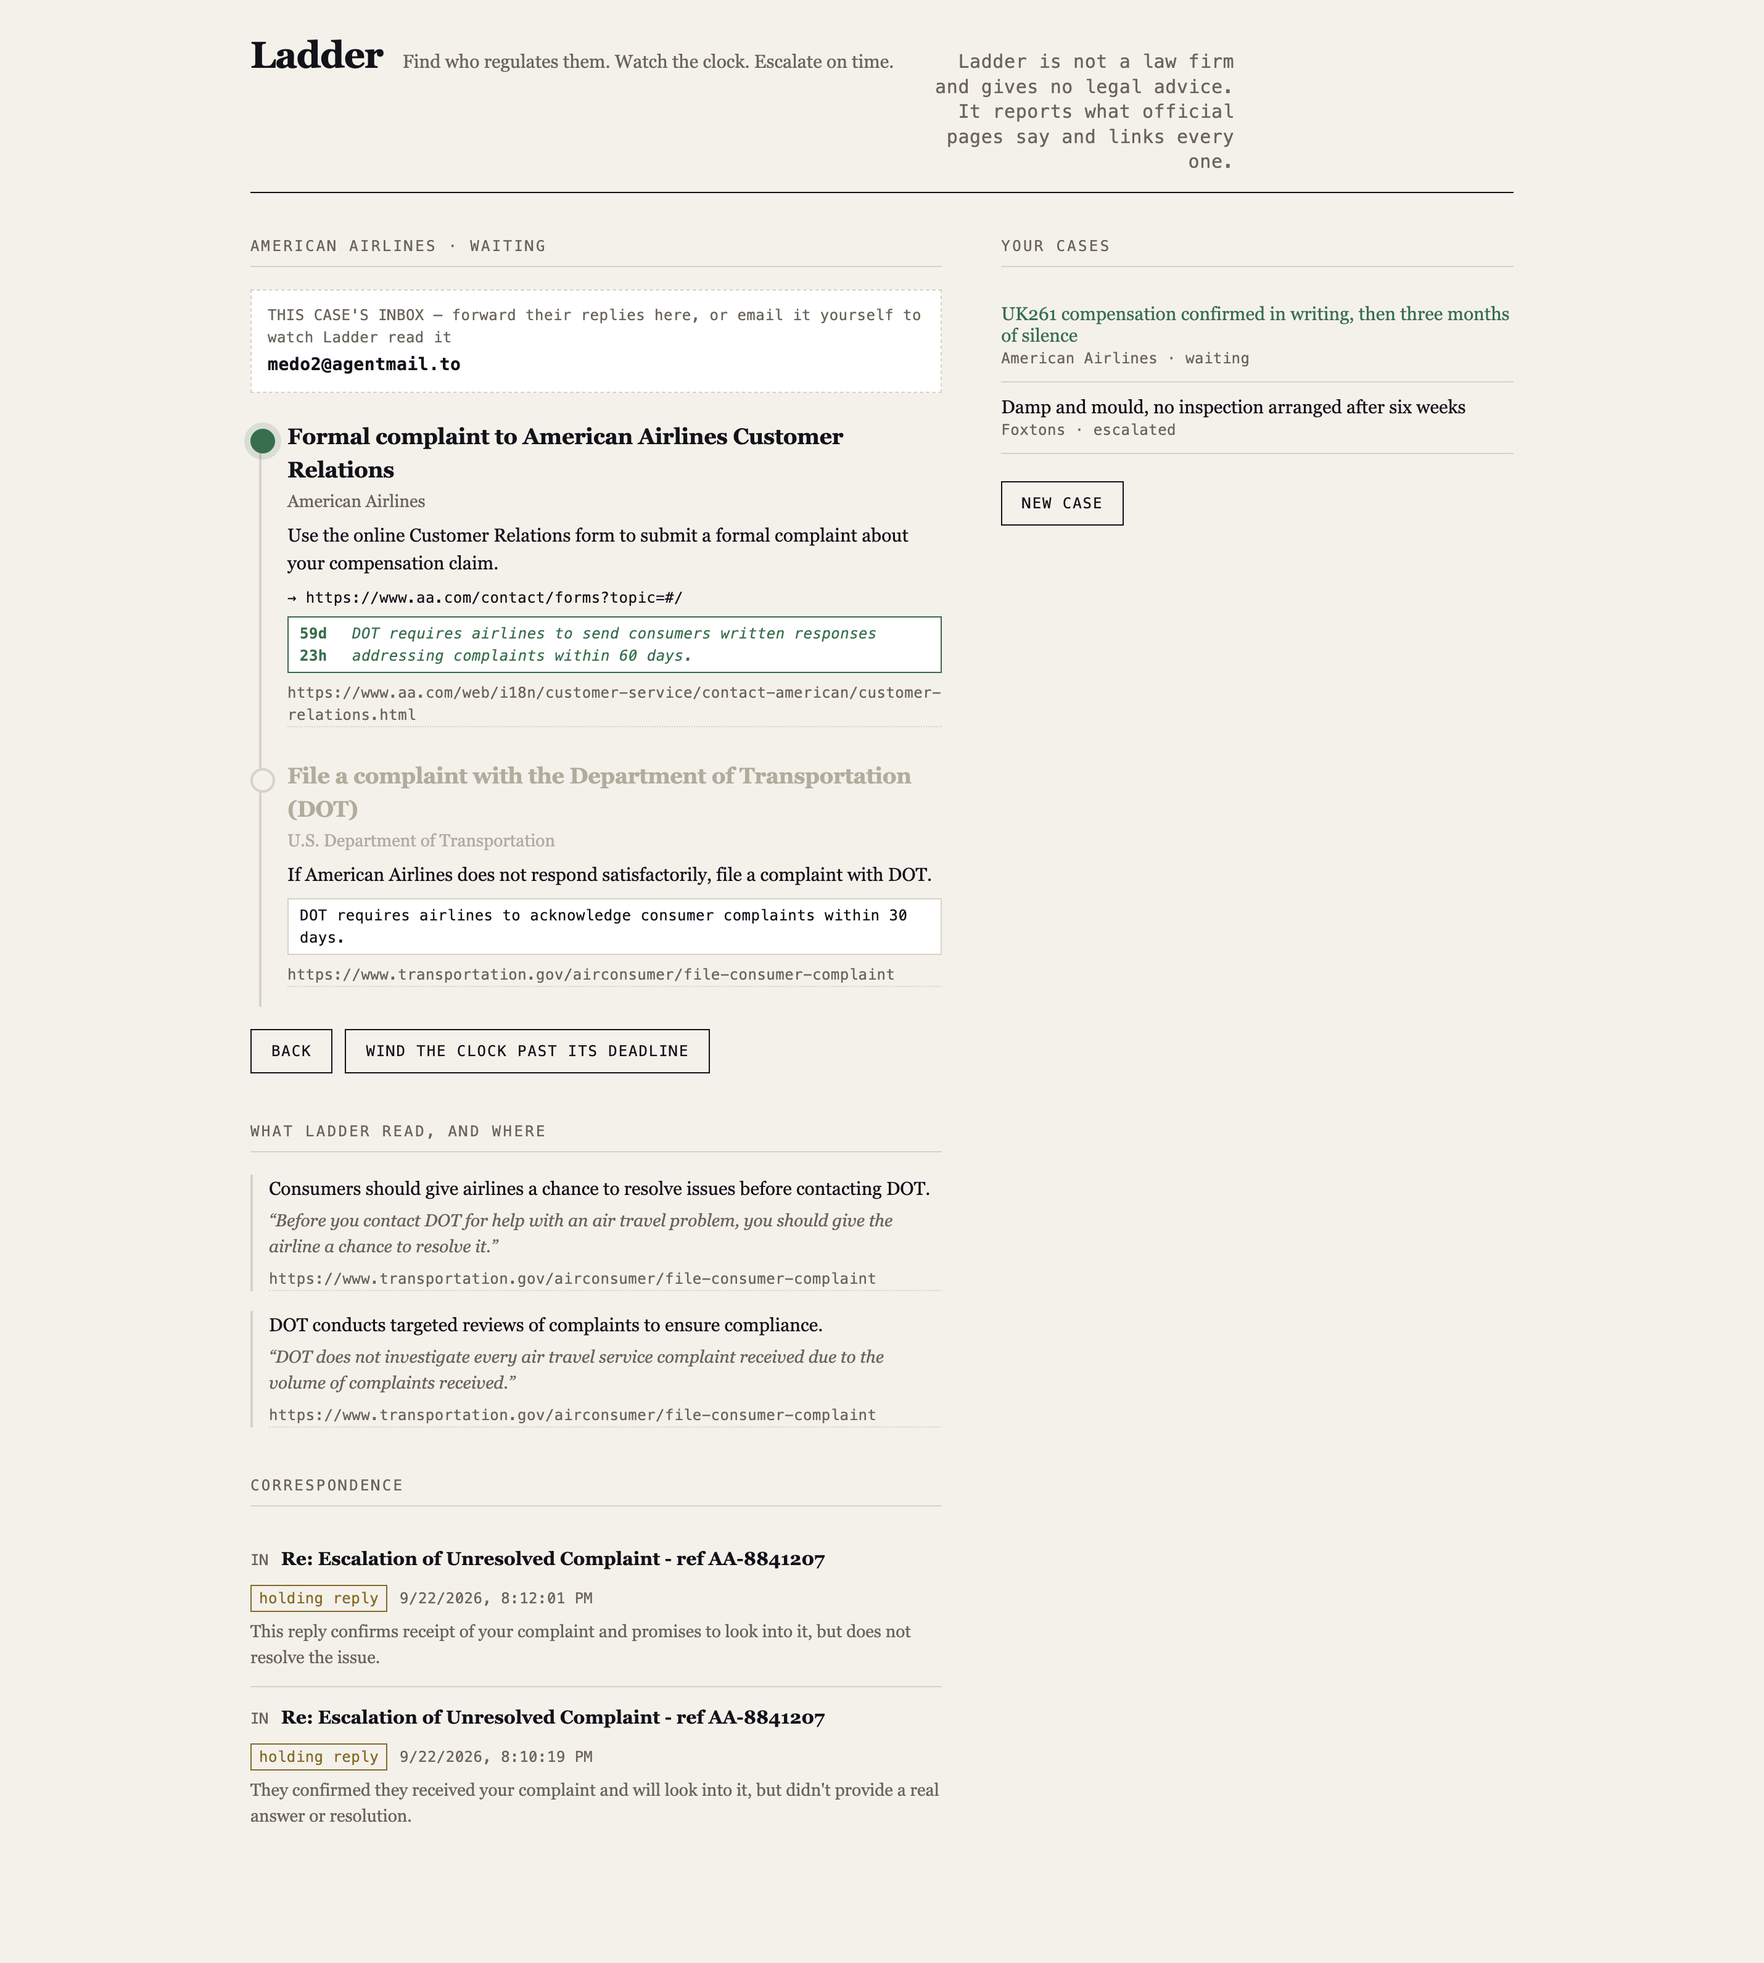
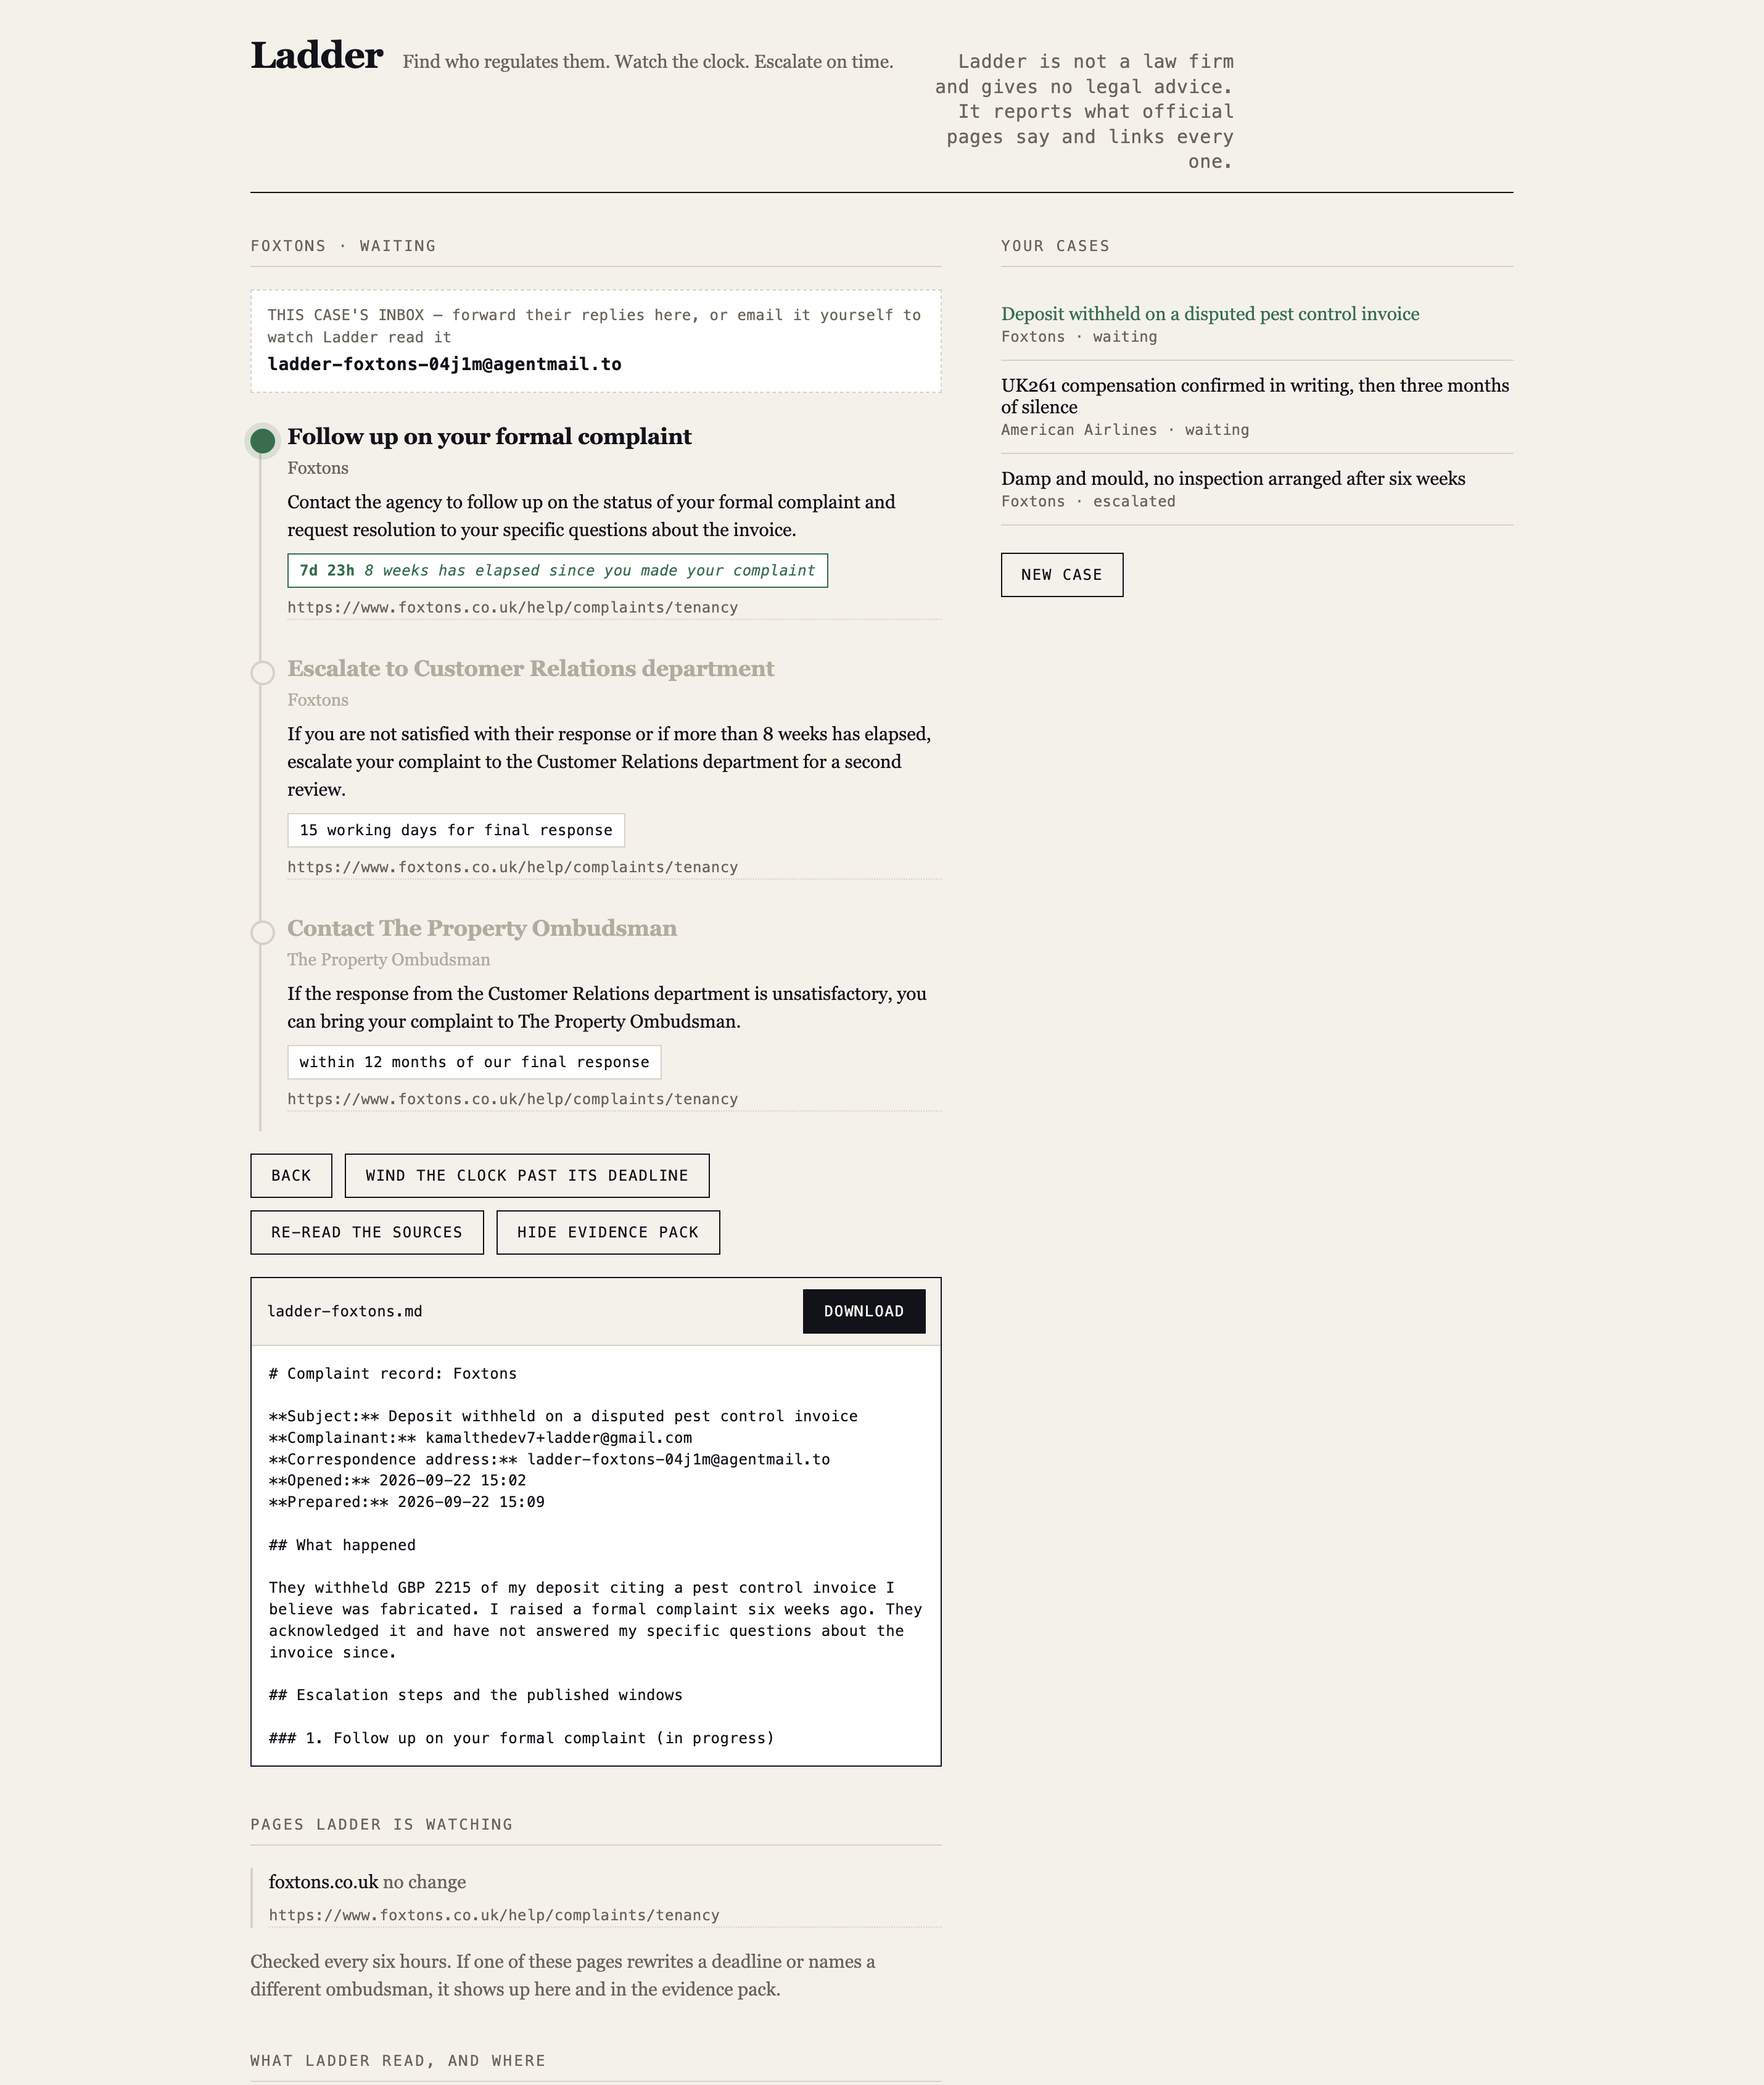
Refresh screenshot with evidence pack and source watching; extend video run of show

diff --git a/docs/SUBMISSION.md b/docs/SUBMISSION.md
@@ -66,11 +66,21 @@ Under 3 minutes. Suggested run of show, click through the real product and talk 
 6. Hit **Wind the clock past its deadline**. Say the windows are genuinely weeks long, so
    this is a labelled control, and the clock, the draft and the send are all real.
 7. Show the drafted escalation.
-8. Switch to the American Airlines case. Show it routed to the US Department of
-   Transportation instead, with 60-day and 30-day clocks. Nothing is hardcoded.
-9. Show **Correspondence**: two real inbound emails tagged **holding reply**, with
-   Ladder's reason. Close on that: *this is what a company sends when it wants your
-   clock to run out.*
+8. Click **Evidence pack**. Say: this is the document you attach to the ombudsman. Dated,
+   every step with its published window, every quote with its link, and the full
+   correspondence. Hit Download so judges see it is a real file.
+9. Point at **Pages Ladder is watching**. Say: organisations rewrite their complaints
+   procedure quietly, and your deadline moves with it. Ladder re-reads these every six
+   hours and only tells you when a deadline, an authority or a contact route actually
+   changed.
+10. Switch to the American Airlines case. Show it routed to the US Department of
+    Transportation instead, with 60-day and 30-day clocks. Nothing is hardcoded.
+11. Show **Correspondence**: real inbound emails tagged **holding reply**, with Ladder's
+    reason. Close on that: *this is what a company sends when it wants your clock to run
+    out.*
+
+Optional 10-second closer if the pacing allows: run `./test/e2e.sh` and show 21 of 21
+passing against the live URL.
 
 ---
 
